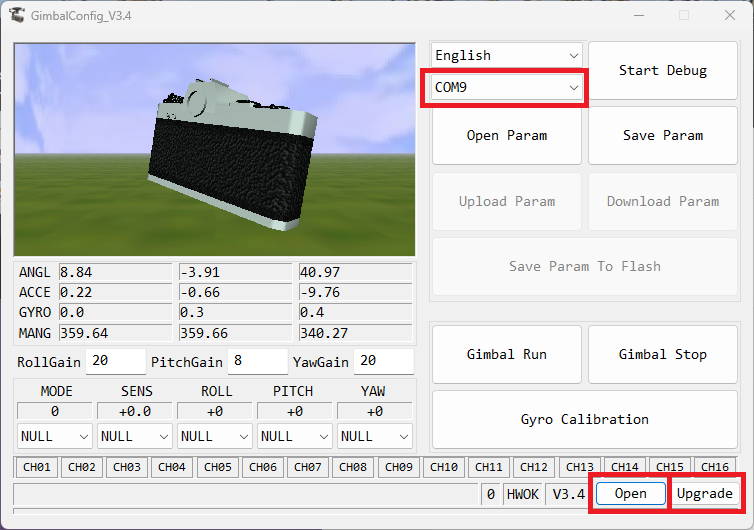
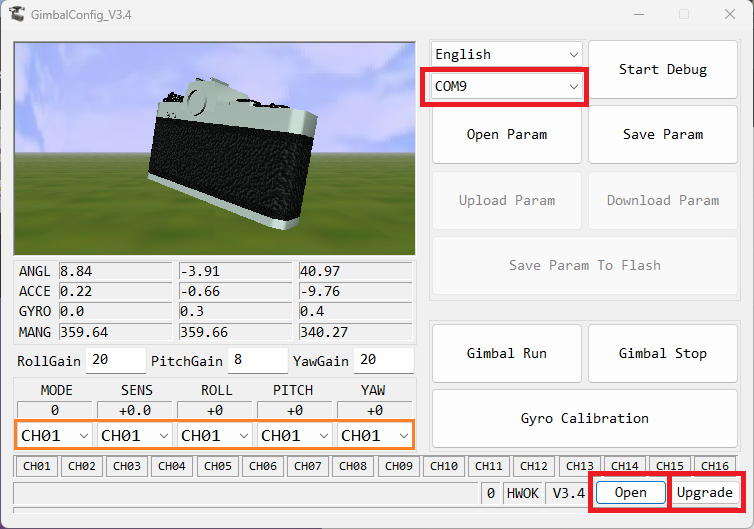
Common: Caddx input channel requirement added

diff --git a/common/source/docs/common-caddx-gimbal.rst b/common/source/docs/common-caddx-gimbal.rst
@@ -65,6 +65,8 @@ Firmware upgrade instructions are in the "Upgrade" section of the `user manual <
     :target: ../_images/caddx-firmware-update-PC.png
     :width: 450px
 
+- Ensure the channel drop-downs highlighted in orange above are set to CH01
+
 Control and Testing
 -------------------
 
